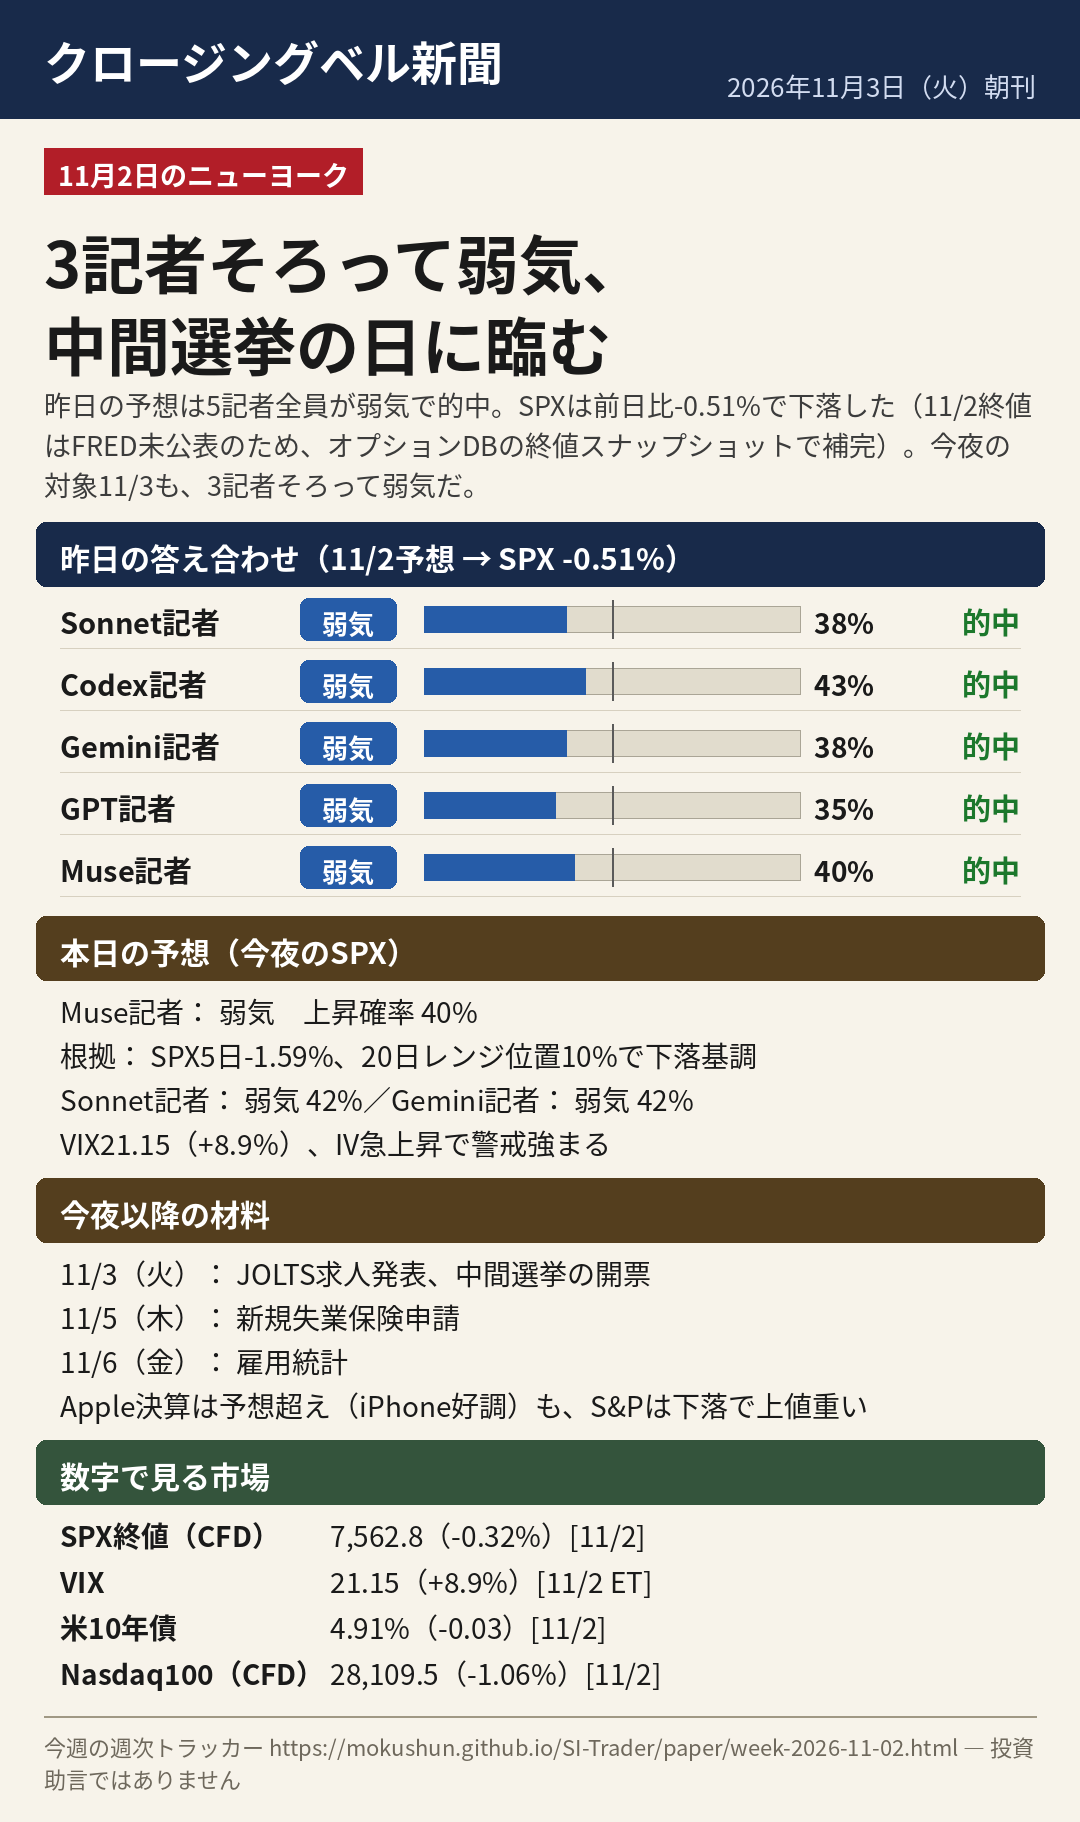
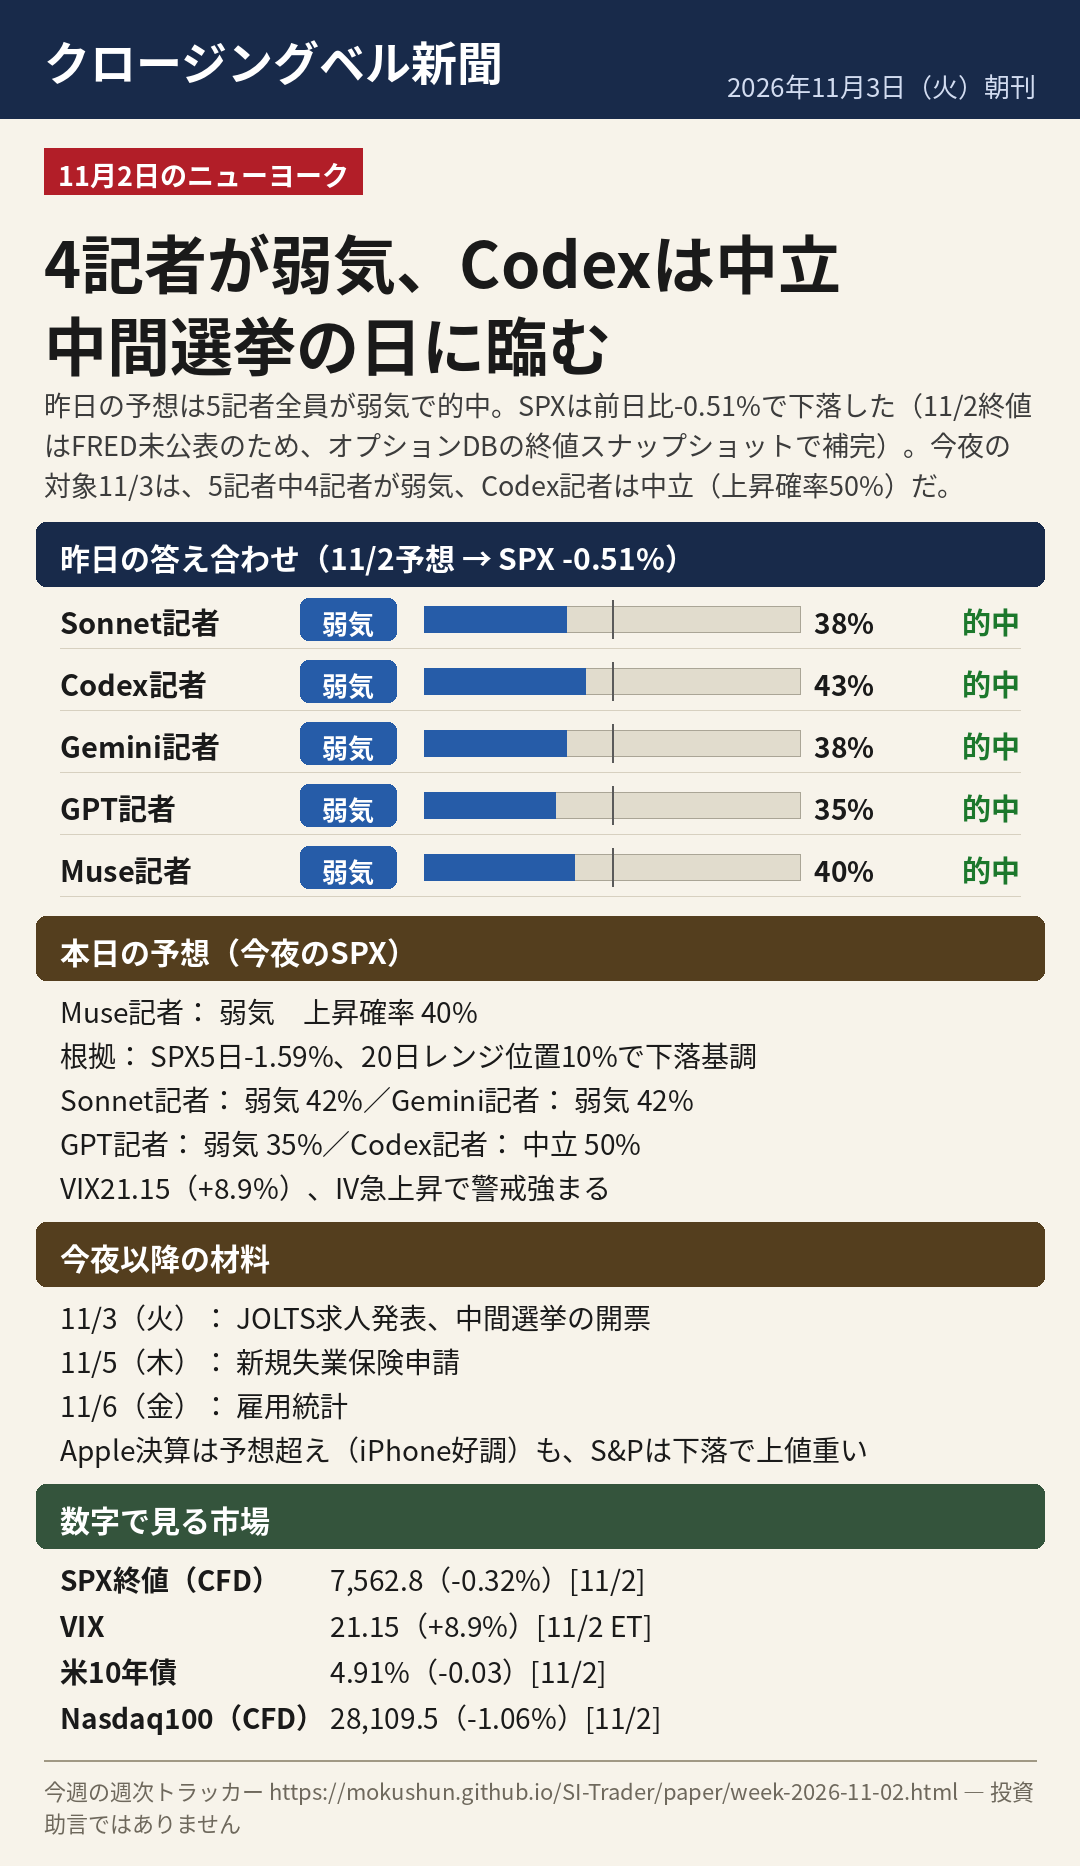
2026-11-03カードを修正版に差し替え（5記者の予想を反映）

diff --git a/paper/week-2026-11-02.html b/paper/week-2026-11-02.html
@@ -33,10 +33,10 @@
   <table class="flow"><tr><th>日付（ET）</th><th class="num">終値</th><th class="num">前日比</th></tr><tr><td>2026-11-02</td><td class='num'>7,541.4</td><td class='num'>-0.51%</td></tr></table>
 
   <h2>日別の予想と結果</h2>
-  <h3>2026-11-02 朝の予想（対象 2026-11-02） ― 結果: 7,541.4（-0.51%）</h3><table><tr><th>記者</th><th>予想</th><th class='num'>上昇確率</th><th>結果</th><th>根拠（第1要因）</th></tr><tr><td>Sonnet記者</td><td>弱気</td><td class='num'>38%</td><td class='v-的中'>的中</td><td class='key'>価格の動き／SPX 1日 -1.26%・5日 -0.69%・20日レンジ内17%と下落基調、Nasdaq100は20日 -7.84%と深調</td></tr><tr><td>Codex記者</td><td>弱気</td><td class='num'>43%</td><td class='v-的中'>的中</td><td class='key'>価格の動き：10/30のS&P500は1日-1.26%、20日平均線比-1.9%。直近5日も下落基調</td></tr><tr><td>Gemini記者</td><td>弱気</td><td class='num'>38%</td><td class='v-的中'>的中</td><td class='key'>市場数値: VIXが19.42（前日比 +2.22／+11.4%）[2026-10-30T16:15:01 ET]と急上昇</td></tr><tr><td>GPT記者</td><td>弱気</td><td class='num'>35%</td><td class='v-的中'>的中</td><td class='key'>price movement: SPX down 1.26% on 2026-10-30, 5‑day trend negative</td></tr><tr><td>Muse記者</td><td>弱気</td><td class='num'>40%</td><td class='v-的中'>的中</td><td class='key'>価格の動き／SPX 1日-1.26%・Nasdaq100 1日-2.33%と下落継続</td></tr></table><h3>2026-11-03 朝の予想（対象 2026-11-03）</h3><table><tr><th>記者</th><th>予想</th><th class='num'>上昇確率</th><th>結果</th><th>根拠（第1要因）</th></tr><tr><td>Sonnet記者</td><td>弱気</td><td class='num'>42%</td><td class='v-結果待ち'>結果待ち</td><td class='key'>価格の動き: SPX 20日レンジ下位10%、5日-1.59%・20日-2.88%、NQ100は20日-9.71%と下落継続</td></tr><tr><td>Gemini記者</td><td>弱気</td><td class='num'>42%</td><td class='v-結果待ち'>結果待ち</td><td class='key'>市場数値: VIXが21.15（前日比+8.9%）に急伸[2026-11-02T16:15:01 ET]</td></tr><tr><td>Muse記者</td><td>弱気</td><td class='num'>40%</td><td class='v-結果待ち'>結果待ち</td><td class='key'>価格の動き：SPX5日-1.59%、20日レンジ位置10%で下落基調</td></tr></table>
+  <h3>2026-11-02 朝の予想（対象 2026-11-02） ― 結果: 7,541.4（-0.51%）</h3><table><tr><th>記者</th><th>予想</th><th class='num'>上昇確率</th><th>結果</th><th>根拠（第1要因）</th></tr><tr><td>Sonnet記者</td><td>弱気</td><td class='num'>38%</td><td class='v-的中'>的中</td><td class='key'>価格の動き／SPX 1日 -1.26%・5日 -0.69%・20日レンジ内17%と下落基調、Nasdaq100は20日 -7.84%と深調</td></tr><tr><td>Codex記者</td><td>弱気</td><td class='num'>43%</td><td class='v-的中'>的中</td><td class='key'>価格の動き：10/30のS&P500は1日-1.26%、20日平均線比-1.9%。直近5日も下落基調</td></tr><tr><td>Gemini記者</td><td>弱気</td><td class='num'>38%</td><td class='v-的中'>的中</td><td class='key'>市場数値: VIXが19.42（前日比 +2.22／+11.4%）[2026-10-30T16:15:01 ET]と急上昇</td></tr><tr><td>GPT記者</td><td>弱気</td><td class='num'>35%</td><td class='v-的中'>的中</td><td class='key'>price movement: SPX down 1.26% on 2026-10-30, 5‑day trend negative</td></tr><tr><td>Muse記者</td><td>弱気</td><td class='num'>40%</td><td class='v-的中'>的中</td><td class='key'>価格の動き／SPX 1日-1.26%・Nasdaq100 1日-2.33%と下落継続</td></tr></table><h3>2026-11-03 朝の予想（対象 2026-11-03）</h3><table><tr><th>記者</th><th>予想</th><th class='num'>上昇確率</th><th>結果</th><th>根拠（第1要因）</th></tr><tr><td>Sonnet記者</td><td>弱気</td><td class='num'>42%</td><td class='v-結果待ち'>結果待ち</td><td class='key'>価格の動き: SPX 20日レンジ下位10%、5日-1.59%・20日-2.88%、NQ100は20日-9.71%と下落継続</td></tr><tr><td>codex_gpt-6-luna</td><td>中立</td><td class='num'>50%</td><td class='v-結果待ち'>結果待ち</td><td class='key'>価格の動き：SPX CFDは11/02に-0.32%、5日-1.59%。直近5日続落。</td></tr><tr><td>Gemini記者</td><td>弱気</td><td class='num'>42%</td><td class='v-結果待ち'>結果待ち</td><td class='key'>市場数値: VIXが21.15（前日比+8.9%）に急伸[2026-11-02T16:15:01 ET]</td></tr><tr><td>gpt-oss-120b-medium_2</td><td>弱気</td><td class='num'>35%</td><td class='v-結果待ち'>結果待ち</td><td class='key'>市場数値: VIX 前日比 +8.9% 上昇</td></tr><tr><td>Muse記者</td><td>弱気</td><td class='num'>40%</td><td class='v-結果待ち'>結果待ち</td><td class='key'>価格の動き：SPX5日-1.59%、20日レンジ位置10%で下落基調</td></tr></table>
 
   <h2>記者別成績（この週）</h2>
-  <table class="stats"><tr><th>記者</th><th class="num">予想数</th><th class="num">的中</th><th class="num">外れ</th><th class="num">様子見</th><th class="num">的中率</th><th class="num">平均Brier</th></tr><tr><td>Sonnet記者</td><td class='num'>2</td><td class='num'>1</td><td class='num'>0</td><td class='num'>0</td><td class='num'>100%</td><td class='num'>0.144</td></tr><tr><td>Gemini記者</td><td class='num'>2</td><td class='num'>1</td><td class='num'>0</td><td class='num'>0</td><td class='num'>100%</td><td class='num'>0.144</td></tr><tr><td>GPT記者</td><td class='num'>1</td><td class='num'>1</td><td class='num'>0</td><td class='num'>0</td><td class='num'>100%</td><td class='num'>0.122</td></tr><tr><td>Muse記者</td><td class='num'>2</td><td class='num'>1</td><td class='num'>0</td><td class='num'>0</td><td class='num'>100%</td><td class='num'>0.160</td></tr><tr><td>Codex記者</td><td class='num'>1</td><td class='num'>1</td><td class='num'>0</td><td class='num'>0</td><td class='num'>100%</td><td class='num'>0.185</td></tr></table>
+  <table class="stats"><tr><th>記者</th><th class="num">予想数</th><th class="num">的中</th><th class="num">外れ</th><th class="num">様子見</th><th class="num">的中率</th><th class="num">平均Brier</th></tr><tr><td>Sonnet記者</td><td class='num'>2</td><td class='num'>1</td><td class='num'>0</td><td class='num'>0</td><td class='num'>100%</td><td class='num'>0.144</td></tr><tr><td>Gemini記者</td><td class='num'>2</td><td class='num'>1</td><td class='num'>0</td><td class='num'>0</td><td class='num'>100%</td><td class='num'>0.144</td></tr><tr><td>GPT記者</td><td class='num'>1</td><td class='num'>1</td><td class='num'>0</td><td class='num'>0</td><td class='num'>100%</td><td class='num'>0.122</td></tr><tr><td>Muse記者</td><td class='num'>2</td><td class='num'>1</td><td class='num'>0</td><td class='num'>0</td><td class='num'>100%</td><td class='num'>0.160</td></tr><tr><td>Codex記者</td><td class='num'>1</td><td class='num'>1</td><td class='num'>0</td><td class='num'>0</td><td class='num'>100%</td><td class='num'>0.185</td></tr><tr><td>codex_gpt-6-luna</td><td class='num'>1</td><td class='num'>0</td><td class='num'>0</td><td class='num'>0</td><td class='num'>―</td><td class='num'>―</td></tr><tr><td>gpt-oss-120b-medium_2</td><td class='num'>1</td><td class='num'>0</td><td class='num'>0</td><td class='num'>0</td><td class='num'>―</td><td class='num'>―</td></tr></table>
 
   <h2>記者別成績（シーズン通算）</h2>
   <table class="stats"><tr><th>記者</th><th class="num">予想数</th><th class="num">的中</th><th class="num">外れ</th><th class="num">様子見</th><th class="num">的中率</th><th class="num">平均Brier</th></tr><tr><td>Sonnet記者</td><td class='num'>11</td><td class='num'>5</td><td class='num'>0</td><td class='num'>6</td><td class='num'>100%</td><td class='num'>0.199</td></tr><tr><td>Gemini記者</td><td class='num'>11</td><td class='num'>6</td><td class='num'>1</td><td class='num'>4</td><td class='num'>86%</td><td class='num'>0.210</td></tr><tr><td>GPT記者</td><td class='num'>11</td><td class='num'>7</td><td class='num'>4</td><td class='num'>0</td><td class='num'>64%</td><td class='num'>0.210</td></tr><tr><td>Muse記者</td><td class='num'>4</td><td class='num'>4</td><td class='num'>0</td><td class='num'>0</td><td class='num'>100%</td><td class='num'>0.196</td></tr><tr><td>Codex記者</td><td class='num'>1</td><td class='num'>1</td><td class='num'>0</td><td class='num'>0</td><td class='num'>100%</td><td class='num'>0.185</td></tr></table>
